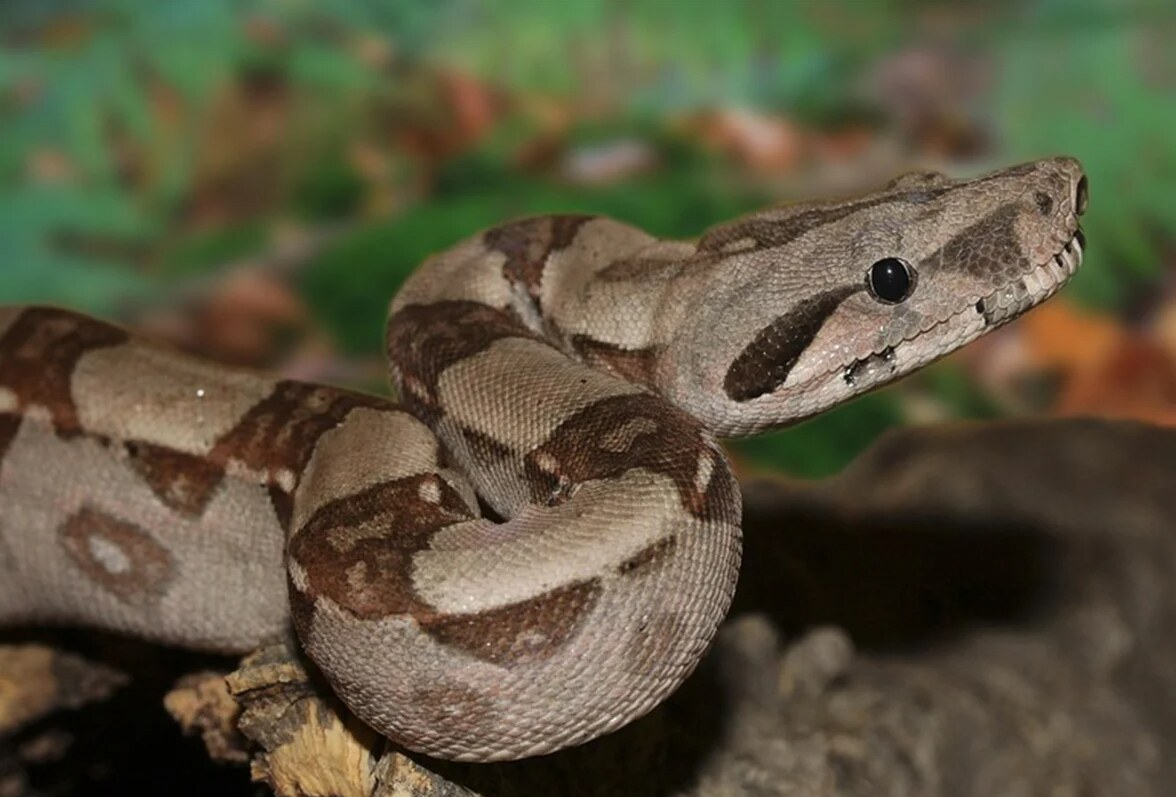
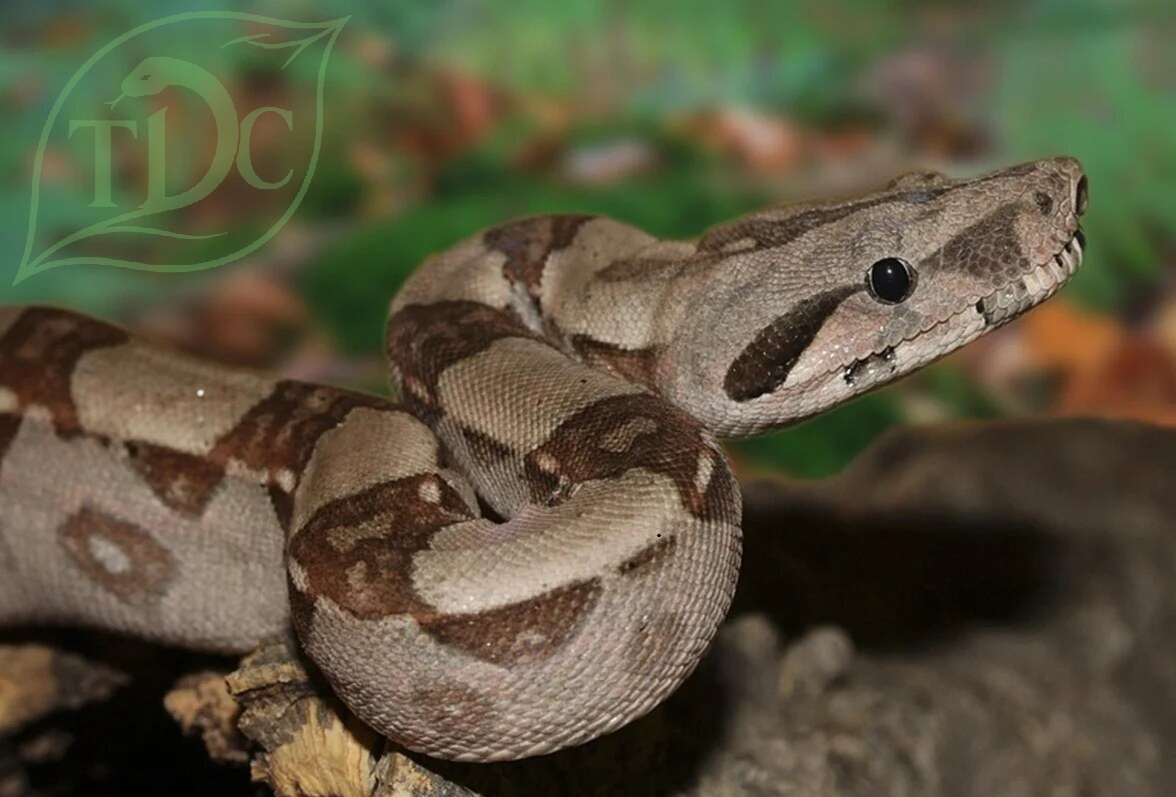
Meta title/description wg tekstu Wojciecha + alt zdjecia glownego boa imperator

diff --git a/weze/boa-imperator/opis/index.html b/weze/boa-imperator/opis/index.html
@@ -44,7 +44,7 @@
       <h1>Boa imperator: opis gatunku</h1>
 
       <figure class="species-photo">
-        <img src="/assets/img/boa-imperator-opis.jpg" alt="Boa imperator zwinięty na gałęzi, zbliżenie na głowę i wzór ubarwienia" width="1176" height="797">
+        <img src="/assets/img/boa-imperator-opis.jpg" alt="Boa imperator zwinięty na korze, zbliżenie na głowę i wzór ubarwienia" width="1176" height="797">
         <figcaption>Boa imperator (Boa cesarski)</figcaption>
       </figure>
 

diff --git a/SITE_WORKFLOW.md b/SITE_WORKFLOW.md
@@ -51,6 +51,13 @@ Flaga `--strict` sprawdza pełną tabelę progów per archetyp z `internal-linki
 
 ## Bieżący status
 
+_Ostatnia aktualizacja: 2026-08-09 (sesja 18)_
+
+**Zrobione (ta sesja; meta title/description na życzenie Wojciecha + potwierdzenie zdjęcia głównego):**
+- Wojciech podał własny, dokładny tekst do wstawienia bez zmian: `<title>Boa imperator (boa cesarski):  terrarium, cena | Terrarium Dla Ciebie</title>` i meta description „Boa imperator - opis gatunkowy, pochodzenie, wielkość terrarium, cena wg. odmian. Wygląd, długość, trudność hodowli." Wstawiono dosłownie, łącznie z podwójną spacją po dwukropku i „Terrarium Dla Ciebie" w brandingu. **Odnotowana rozbieżność**: to jedyna z 10 podstron z brandingiem „Terrarium Dla Ciebie" w tytule, pozostałe 9 (huby rodzin + strona główna) mają „terrariumdla.pl". Zgłoszone Wojciechowi w poprzedniej turze, nie poprawione bez jego decyzji.
+- **Plik `assets/img/boa-imperator-opis.jpg` podmieniony poza sesją** (znaleziony jako `git status` „modified" bez odpowiadającego commitu, ten sam wzorzec „commitów spoza sesji" co poprzednie sesje): nowa wersja, 1176x797 (bez zmiany wymiarów względem sesji 17), 193 KB, ze znakiem wodnym TDC (poprzednia wersja z `imperator1.svg` była bez znaku wodnego). `<img>` na `/weze/boa-imperator/opis/index.html` już wskazywał na tę samą nazwę pliku i te same wymiary, więc `src`/`width`/`height` nie wymagały zmian. Zaktualizowano tylko `alt` z powrotem na „na korze" (zgodne z tym konkretnym kadrem, ten sam opis co w sesji 13/14).
+- Zweryfikowano: `html.parser` bez błędów, `link_audit.py --strict` 14/10 bez regresji, zdjęcie sprawdzone wizualnie (Read na pliku z dysku).
+
 _Ostatnia aktualizacja: 2026-08-09 (sesja 17)_
 
 **Zrobione (ta sesja; trzecia podmiana zdjęcia na filarze boa imperator, z pliku dodanego bezpośrednio do repo):**
